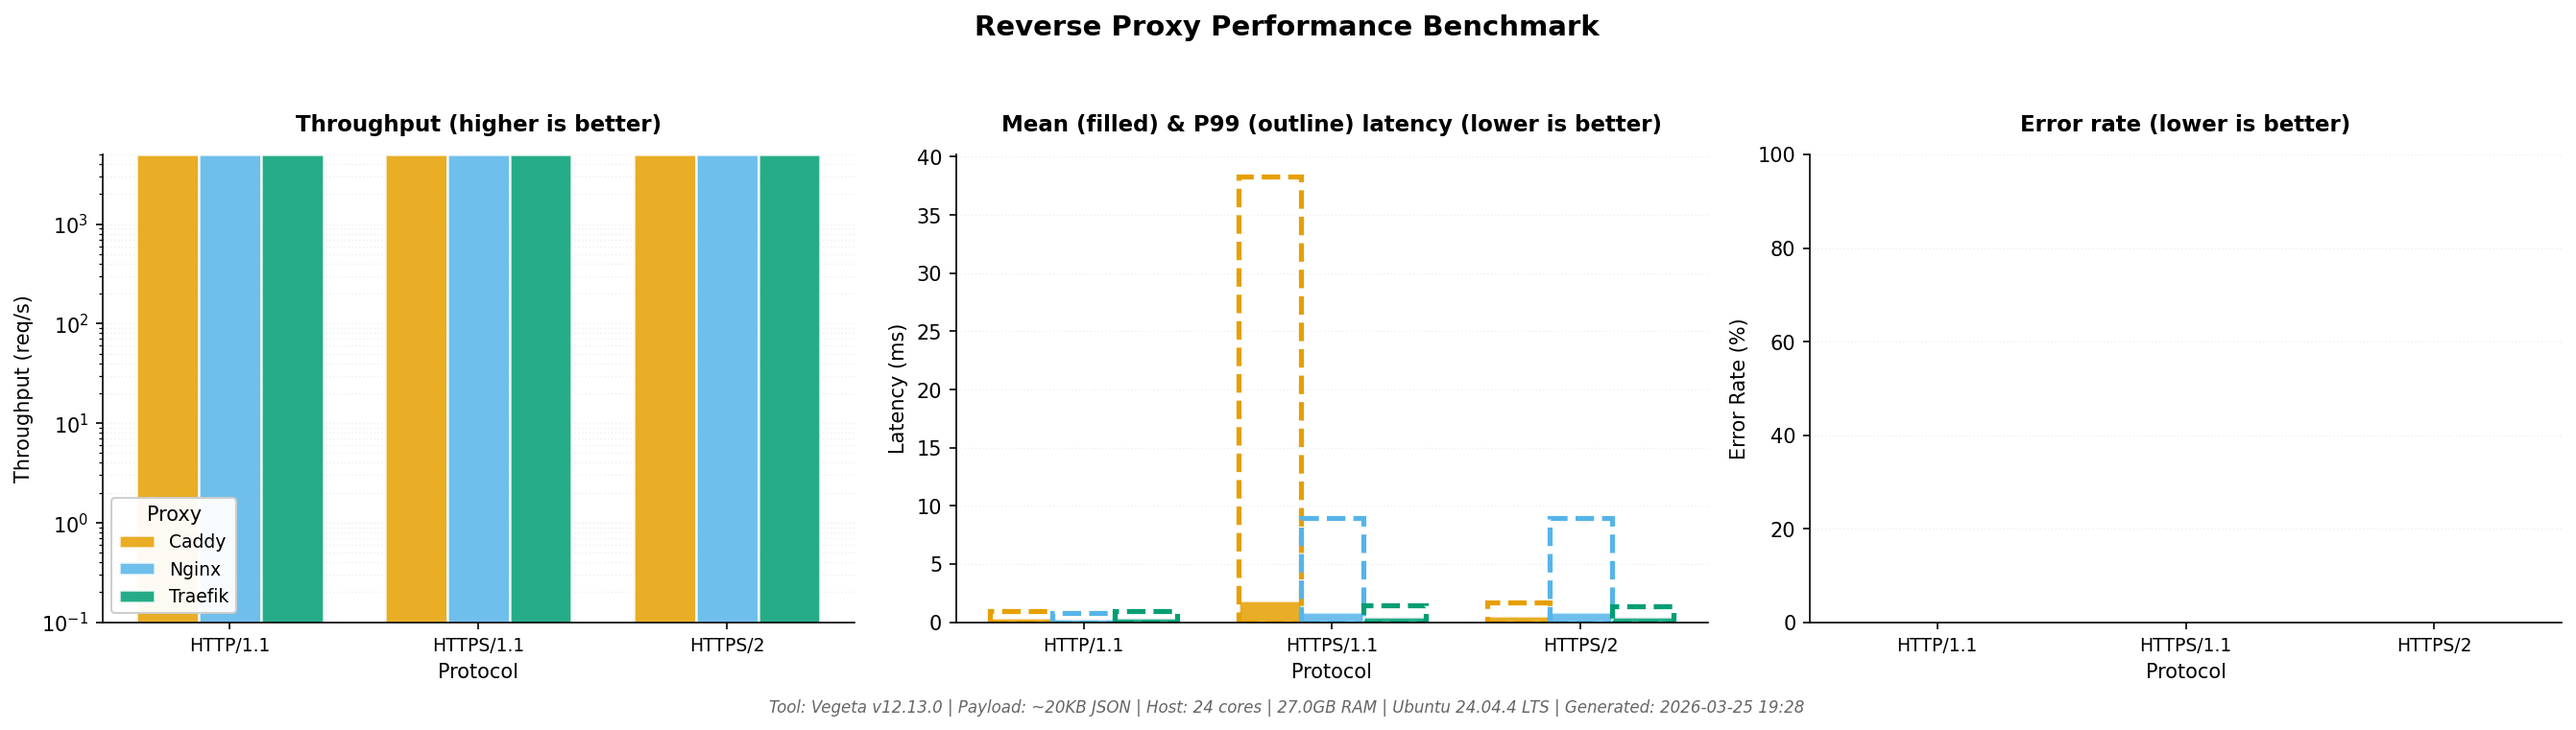
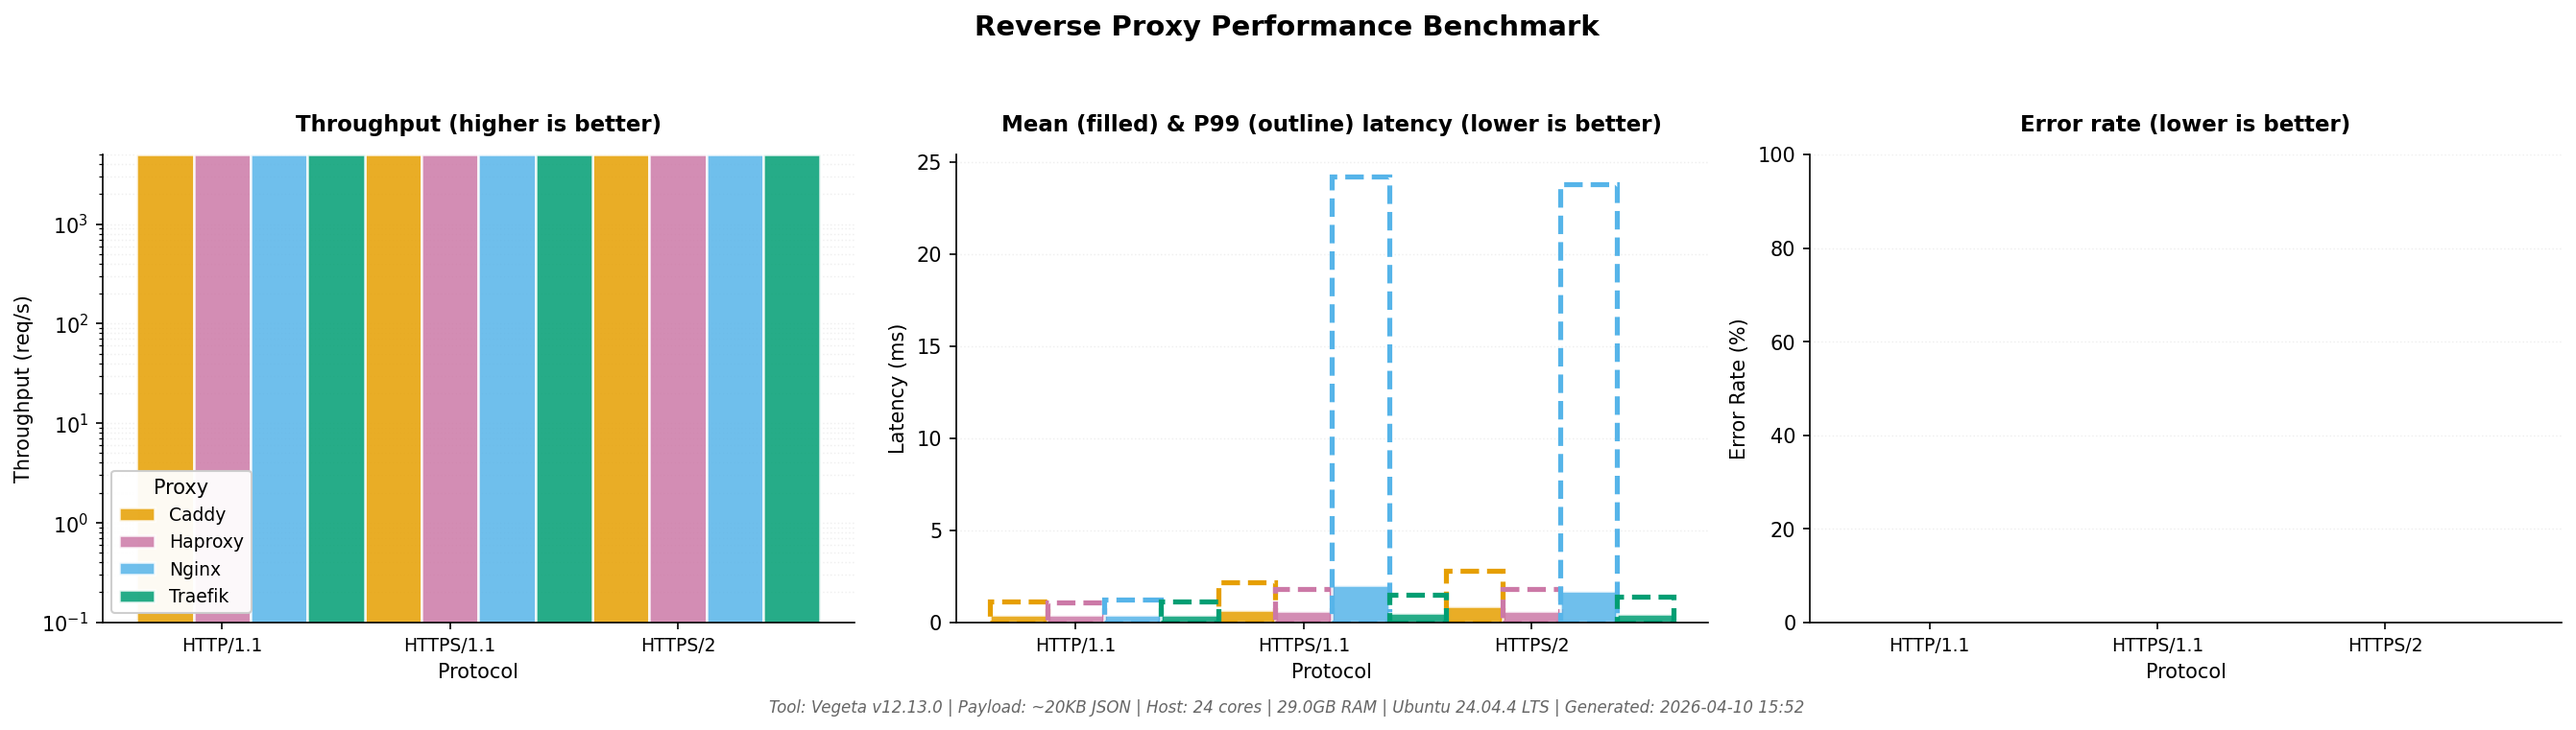
feat: add HAProxy and upgrade all proxies to latest versions

diff --git a/analyze_results.py b/analyze_results.py
@@ -243,9 +243,10 @@ def create_scientific_chart(data: dict[str, dict[str, dict[str, Any]]]) -> None:
 
     # Okabe-Ito colorblind-friendly palette
     colors = {
-        "caddy": "#E69F00",  # Orange
-        "nginx": "#56B4E9",  # Sky blue
+        "caddy": "#E69F00",    # Orange
+        "nginx": "#56B4E9",    # Sky blue
         "traefik": "#009E73",  # Bluish green
+        "haproxy": "#CC79A7",  # Reddish purple
     }
 
     # Single row layout: Throughput | Latency | Error Rate

diff --git a/README.md b/README.md
@@ -3,7 +3,7 @@
 [![CI](https://github.com/fabianwimberger/reverse-proxy-benchmark/actions/workflows/ci.yml/badge.svg)](https://github.com/fabianwimberger/reverse-proxy-benchmark/actions)
 [![License: MIT](https://img.shields.io/badge/License-MIT-yellow.svg)](https://opensource.org/licenses/MIT)
 
-A Docker-based benchmarking suite comparing **Nginx**, **Caddy**, and **Traefik** across HTTP/1.1, HTTPS/1.1, and HTTPS/2.
+A Docker-based benchmarking suite comparing **Nginx**, **Caddy**, **Traefik**, and **HAProxy** across HTTP/1.1, HTTPS/1.1, and HTTPS/2.
 
 Powered by [Vegeta](https://github.com/tsenart/vegeta), an industry-standard HTTP load testing tool.
 
@@ -12,19 +12,19 @@ Powered by [Vegeta](https://github.com/tsenart/vegeta), an industry-standard HTT
 Reverse proxies are critical infrastructure components, but performance characteristics vary significantly between solutions and protocol versions. Rather than relying on vendor benchmarks or generic recommendations, this project provides reproducible, data-driven insights for infrastructure decisions.
 
 **Goals:**
-- Compare Nginx, Caddy, and Traefik objectively
+- Compare Nginx, Caddy, Traefik, and HAProxy objectively
 - Measure impact of TLS and HTTP/2 on throughput and latency
 - Establish baseline metrics for containerized deployments
 - Provide reproducible methodology for independent verification
 
 <p align="center">
   <img src="assets/demo.gif" width="100%" alt="Benchmark Demo">
-  <br><em>Full benchmark run: build, test 9 scenarios, analyze results</em>
+  <br><em>Full benchmark run: build, test 12 scenarios, analyze results</em>
 </p>
 
 ## Features
 
-- **Three proxies** — Nginx, Caddy, Traefik
+- **Four proxies** — Nginx, Caddy, Traefik, HAProxy
 - **Three protocols** — HTTP/1.1, HTTPS/1.1, HTTPS/2
 - **Realistic load testing** — Vegeta with configurable rate and duration
 - **Visual results** — matplotlib charts comparing all scenarios
@@ -52,10 +52,10 @@ Results are saved to `results/charts/` with timestamped PNG files.
 ## How It Works
 
 ```
-Vegeta → [Nginx|Caddy|Traefik] → Backend
+Vegeta → [Nginx|Caddy|Traefik|HAProxy] → Backend
 ```
 
-**Proxies:** Nginx 1.29.7 · Caddy 2.11.2 · Traefik 3.6.11
+**Proxies:** Nginx 1.29.8 · Caddy 2.11.2 · Traefik 3.6.13 · HAProxy 3.3.6
 
 **Load Generator:** Vegeta v12.13.0
 
@@ -72,11 +72,11 @@ Based on benchmarks with ~20KB JSON payload at **5,000 req/s** (default paramete
 
 | Scenario | Best Mean Latency | Best P99 Latency | Notes |
 |----------|-------------------|------------------|-------|
-| HTTP/1.1 | **Nginx** (~0.27ms) | **Nginx** (~0.80ms) | All three within ~30% of each other |
-| HTTPS/1.1 | **Traefik** (~0.45ms) | **Traefik** (~1.41ms) | Caddy shows severe tail latency (P99 ~38ms) |
-| HTTPS/2 | **Traefik** (~0.44ms) | **Traefik** (~1.33ms) | Nginx higher latency under HTTP/2 (P99 ~9ms) |
+| HTTP/1.1 | **Caddy/HAProxy** (~0.41ms) | **HAProxy** (~1.09ms) | All four within ~5% of each other. |
+| HTTPS/1.1 | **Traefik** (~0.48ms) | **Traefik** (~1.47ms) | Nginx shows high tail latency (P99 ~24ms). |
+| HTTPS/2 | **Traefik** (~0.46ms) | **Traefik** (~1.37ms) | Traefik remains the leader in TLS scenarios. HAProxy follows closely (~1.79ms P99). |
 
-**Takeaway:** Nginx wins on raw HTTP/1.1 throughput. Traefik wins on TLS workloads (lowest P99 across both HTTPS scenarios). Caddy shows a notable P99 outlier under HTTPS/1.1 (~38ms vs Traefik's ~1.4ms). All three achieved 0% errors at 5,000 req/s.
+**Takeaway:** Performance is extremely tight on HTTP/1.1 across all proxies. Traefik continues to dominate TLS workloads (HTTPS/1.1 and HTTPS/2) with the lowest mean and P99 latencies. HAProxy shows excellent consistency across all protocols, while Nginx experienced higher tail latencies in TLS scenarios in this environment. All four achieved 100% success rate at 5,000 req/s.
 
 *The "best" proxy depends on your constraints: plaintext throughput (Nginx), TLS performance + operational simplicity (Traefik), or auto-provisioned certificates (Caddy).*
 
@@ -91,7 +91,7 @@ Based on benchmarks with ~20KB JSON payload at **5,000 req/s** (default paramete
 
 | Component | Location |
 |-----------|----------|
-| Proxy configs | `configs/{nginx,caddy,traefik}/` |
+| Proxy configs | `configs/{nginx,caddy,traefik,haproxy}/` |
 | Benchmark parameters | `Makefile` (RATE, DURATION, CONNECTIONS) |
 | Analysis script | `analyze_results.py` |
 
@@ -111,3 +111,4 @@ MIT License — see [LICENSE](LICENSE) file.
 | Nginx | [BSD-2-Clause](https://nginx.org/LICENSE) | https://nginx.org/ |
 | Caddy | [Apache-2.0](https://github.com/caddyserver/caddy/blob/master/LICENSE) | https://github.com/caddyserver/caddy |
 | Traefik | [MIT](https://github.com/traefik/traefik/blob/master/LICENSE.md) | https://github.com/traefik/traefik |
+| HAProxy | [GPL-2.0](http://www.haproxy.org/download/2.4/src/LICENSE) | http://www.haproxy.org/ |
